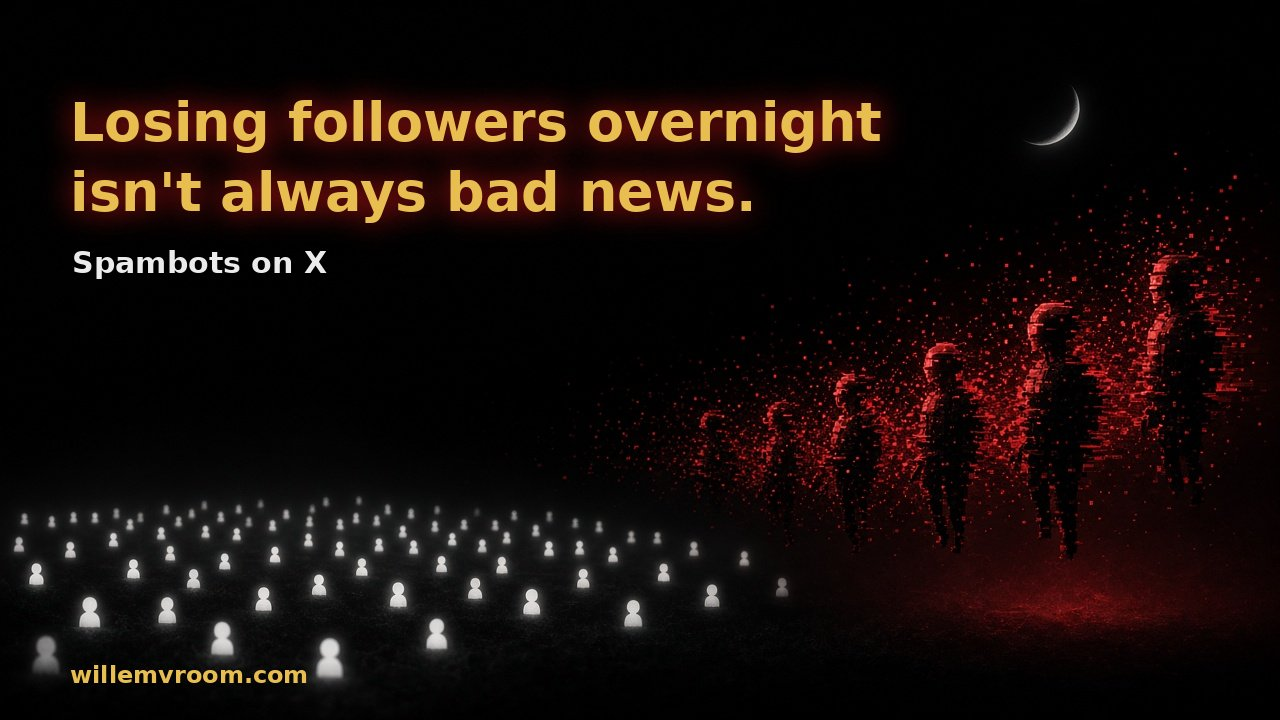
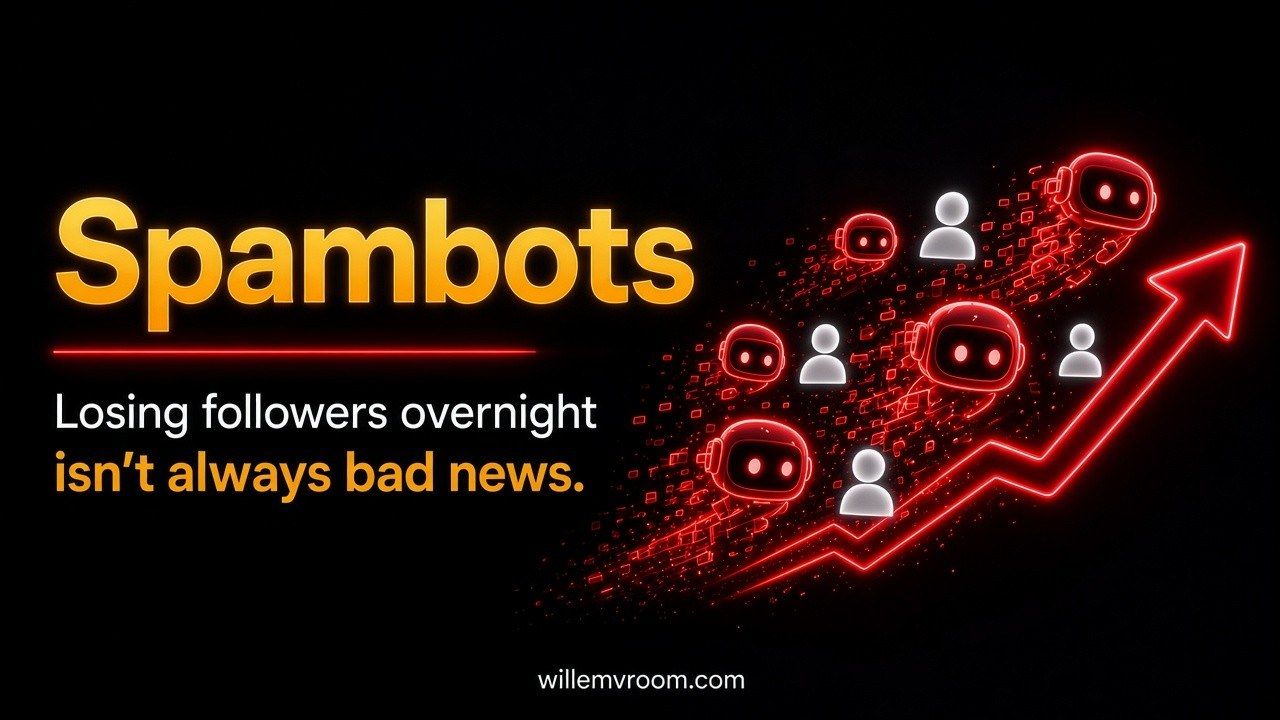
Spambots: nieuwe kopfoto (v3)

diff --git a/spambots/index.html b/spambots/index.html
@@ -16,12 +16,12 @@
 <meta property="og:url" content="https://willemvroom.com/spambots/">
 <meta property="og:title" content="Spambots on X: why you lose followers overnight">
 <meta property="og:description" content="What spambots on X are, why your follower count sometimes drops, how bots hurt your reach, and what you can do about them.">
-<meta property="og:image" content="https://willemvroom.com/work/spambots-og.jpg?v=2">
+<meta property="og:image" content="https://willemvroom.com/work/spambots-og.jpg?v=3">
 <meta property="og:image:width" content="1280"><meta property="og:image:height" content="720">
 <meta name="twitter:card" content="summary_large_image">
 <meta name="twitter:title" content="Spambots on X: why you lose followers overnight">
 <meta name="twitter:description" content="What spambots on X are, why your follower count sometimes drops, how bots hurt your reach, and what you can do about them.">
-<meta name="twitter:image" content="https://willemvroom.com/work/spambots-og.jpg?v=2">
+<meta name="twitter:image" content="https://willemvroom.com/work/spambots-og.jpg?v=3">
 <script>(function(){try{var t=localStorage.getItem("wv-theme");if(t==="dark"||(!t&&matchMedia("(prefers-color-scheme: dark)").matches)){document.documentElement.classList.add("dark");var m=document.querySelector('meta[name="theme-color"]');if(m)m.setAttribute("content","#0b0b0b");}}catch(e){}})();</script>
 <style>.ai-glow{color:#ff2a3a;text-shadow:0 0 12px rgba(255,42,58,.55)}.pbtn{display:inline-flex;align-items:center;min-height:44px;padding:.5rem 1rem;border:1px solid currentColor;border-radius:999px;font-weight:600;text-decoration:none!important;margin:.5rem .6rem 0 0;background:none;color:inherit;font-size:.9rem;cursor:pointer}.pbtn.bold{background:#ff2a3a;border-color:#ff2a3a;color:#fff}.pbtn:focus-visible,.g a:focus-visible,.g select:focus-visible,.g textarea:focus-visible{outline:3px solid #ff2a3a;outline-offset:2px}.g select,.g textarea{width:100%;font:inherit;font-size:max(16px,1rem);padding:.7rem;border:1px solid rgba(127,127,127,.5);border-radius:10px;background:transparent;color:inherit}.g select option{color:#000}.g label{display:block;font-weight:600;margin-top:1rem}</style>
 <style>
@@ -64,7 +64,7 @@
 <header class="wv-head"><a href="/" class="home">willemvroom.com</a><nav><span class="wv-more"><button type="button" class="wv-more-btn" aria-expanded="false" aria-controls="wv-more-menu" aria-label="More pages" onclick="var m=this.nextElementSibling,o=m.hidden;m.hidden=!o;this.setAttribute('aria-expanded',o)"><svg width="20" height="20" viewBox="0 0 24 24" fill="none" stroke="currentColor" stroke-width="2.2" stroke-linecap="round" stroke-linejoin="round" aria-hidden="true"><path d="M6 9l6 6 6-6"/></svg></button><span id="wv-more-menu" class="wv-more-menu" hidden><a href="/">Home</a><a href="/toolkit/">Toolkit</a><a href="/map/">Map</a><span class="wv-more-g">Hooks</span><a href="/hooks/">Hooks on X</a><a href="/how-to-hook/">How to Hook</a><a href="/hooks-for-bots/">Hooks for Bots</a><a href="/hook-app/">Hook App</a><span class="wv-more-g">Replies</span><a href="/reply/">Reply on X</a><a href="/how-to-reply/">How to Reply</a><a href="/replyapp/">Reply App</a><span class="wv-more-g">X Algorithm</span><a href="/x-algorithm/">X Algorithm</a><a href="/x-timing/">Timing</a><a href="/x-media/">Images & video</a><a href="/x-negative-signals/">Negative signals</a><a href="/x-followers/">Followers</a><a href="/spambots/">Spambots</a><span class="wv-more-g">Shares</span><a href="/x-shares/">Shares on X</a><a href="/share-hooks/">Share Hooks</a><span class="wv-more-g">Tools</span><a href="/toolkit-app/">Toolkit App</a></span></span><style>.wv-more{position:relative;display:inline-block;margin-right:.35rem}.wv-more-menu{max-height:70vh;overflow-y:auto;-webkit-overflow-scrolling:touch;overscroll-behavior:contain;min-width:12rem}.wv-more-g{display:block;padding:.55rem .6rem .2rem;font-size:.7rem;font-weight:700;letter-spacing:.08em;text-transform:uppercase;color:#000;-webkit-text-stroke:.7px #d62828;paint-order:stroke fill;text-shadow:none;border-top:1px solid var(--color-line);margin-top:.25rem}html.dark .wv-more-g{color:#fff;text-shadow:0 0 6px rgba(255,42,58,.95),0 0 14px rgba(255,42,58,.6)}.wv-head:has(.wv-more-btn[aria-expanded=true]){clip-path:none!important;z-index:2000!important}.wv-more-btn{display:inline-flex;align-items:center;justify-content:center;border:0;background:transparent;color:#d62828;width:36px;height:44px;padding:0;cursor:pointer;-webkit-tap-highlight-color:transparent}.wv-more-btn svg{transition:transform .2s;filter:drop-shadow(0 0 5px rgba(255,42,58,.55))}.wv-more-btn[aria-expanded=true] svg{transform:rotate(180deg)}.wv-more-btn:hover svg,.wv-more-btn:focus-visible svg{filter:drop-shadow(0 0 8px rgba(255,42,58,.9))}.wv-more-menu{position:absolute;right:0;top:calc(100% + .4rem);z-index:1000;display:flex;flex-direction:column;min-width:8.5rem;padding:.35rem;background:var(--color-bg);color:var(--color-fg);border:1px solid var(--color-line);border-radius:12px;box-shadow:0 10px 28px -10px rgba(255,42,58,.6)}.wv-more-menu[hidden]{display:none}.wv-more-menu a{padding:.55rem .7rem;border-radius:8px;text-decoration:none;color:inherit;font-weight:600}.wv-more-menu a:hover,.wv-more-menu a:focus{background:rgba(255,42,58,.12);color:#ff2a3a}</style><script>document.addEventListener("click",function(e){var w=document.querySelector(".wv-more");if(w&&!w.contains(e.target)){w.querySelector(".wv-more-menu").hidden=true;w.querySelector(".wv-more-btn").setAttribute("aria-expanded","false")}});document.addEventListener("keydown",function(e){if(e.key==="Escape"){var w=document.querySelector(".wv-more");if(w){w.querySelector(".wv-more-menu").hidden=true;w.querySelector(".wv-more-btn").setAttribute("aria-expanded","false")}}})</script> <button id="thm" type="button" aria-label=""><svg class="moon" viewBox="0 0 24 24" width="18" height="18" fill="none" stroke="currentColor" stroke-width="2" stroke-linecap="round" stroke-linejoin="round"><path d="M21 12.8A9 9 0 1 1 11.2 3a7 7 0 0 0 9.8 9.8z"/></svg><svg class="sun" viewBox="0 0 24 24" width="18" height="18" fill="none" stroke="currentColor" stroke-width="2" stroke-linecap="round"><circle cx="12" cy="12" r="4.5"/><path d="M12 2v2M12 20v2M4.9 4.9l1.4 1.4M17.7 17.7l1.4 1.4M2 12h2M20 12h2M4.9 19.1l1.4-1.4M17.7 6.3l1.4-1.4"/></svg></button></nav></header>
 <main id="inhoud" class="g">
 <p class="text-sm"><a href="/">← willemvroom.com</a></p>
-<h1 class="sr-only">Losing followers overnight isn't always bad news.</h1><picture><source srcset="/work/spambots-cover.webp?v=2" type="image/webp"><img style="display:block;margin-top:1rem;width:100%;height:auto;border-radius:16px;background:#000" src="/work/spambots-og.jpg?v=2" width="1280" height="720" alt="Losing followers overnight isn't always bad news. Spambots on X"></picture>
+<h1 class="sr-only">Losing followers overnight isn't always bad news.</h1><picture><source srcset="/work/spambots-cover.webp?v=3" type="image/webp"><img style="display:block;margin-top:1rem;width:100%;height:auto;border-radius:16px;background:#000" src="/work/spambots-og.jpg?v=3" width="1280" height="720" alt="Losing followers overnight isn't always bad news. Spambots on X"></picture>
 <p class="sub mt-6">Here's what spambots on X are, why your follower count sometimes drops for no clear reason, how bots hurt your reach, and what you can do about them.</p>
 <p><a class="pbtn bold" href="https://x.com/intent/post?text=Spambots%20on%20X:%20why%20you%20lose%20followers%20overnight%20by%20%40willemvroom%20https://willemvroom.com/spambots/" target="_blank" rel="noopener">Share on X</a><a class="pbtn" href="/x-algorithm/">X Algorithm guide</a></p>
 

diff --git a/index.html b/index.html
@@ -154,7 +154,7 @@
 <div class="flex items-baseline justify-between sm:col-span-2 sm:block"><p class="werk-nr font-display text-2xl leading-none">19</p><p class="mt-2 text-sm text-subtle">Nov 1, 2026</p></div>
 <div class="sm:col-span-10"><h3 class="font-display text-3xl leading-tight font-medium tracking-tight">Spambots on X</h3>
 <p class="mt-3 max-w-xl text-base text-muted">Losing followers overnight isn't always bad news. What spambots are, why counts drop, and what to do about them.</p>
-<a href="/spambots/"><picture><source srcset="/work/spambots-cover.webp?v=2" type="image/webp"><img loading="lazy" style="display:block;margin-top:1rem;width:100%;max-width:36rem;height:auto;border-radius:16px;background:#000" src="/work/spambots-og.jpg?v=2" width="1280" height="720" alt="Losing followers overnight isn't always bad news. Spambots on X"></picture></a>
+<a href="/spambots/"><picture><source srcset="/work/spambots-cover.webp?v=3" type="image/webp"><img loading="lazy" style="display:block;margin-top:1rem;width:100%;max-width:36rem;height:auto;border-radius:16px;background:#000" src="/work/spambots-og.jpg?v=3" width="1280" height="720" alt="Losing followers overnight isn't always bad news. Spambots on X"></picture></a>
 <p class="mt-4"><a href="/spambots/" class="link-line press inline-flex min-h-11 items-center gap-2 text-sm font-medium">Read</a></p></div>
 </article>
 </div>
